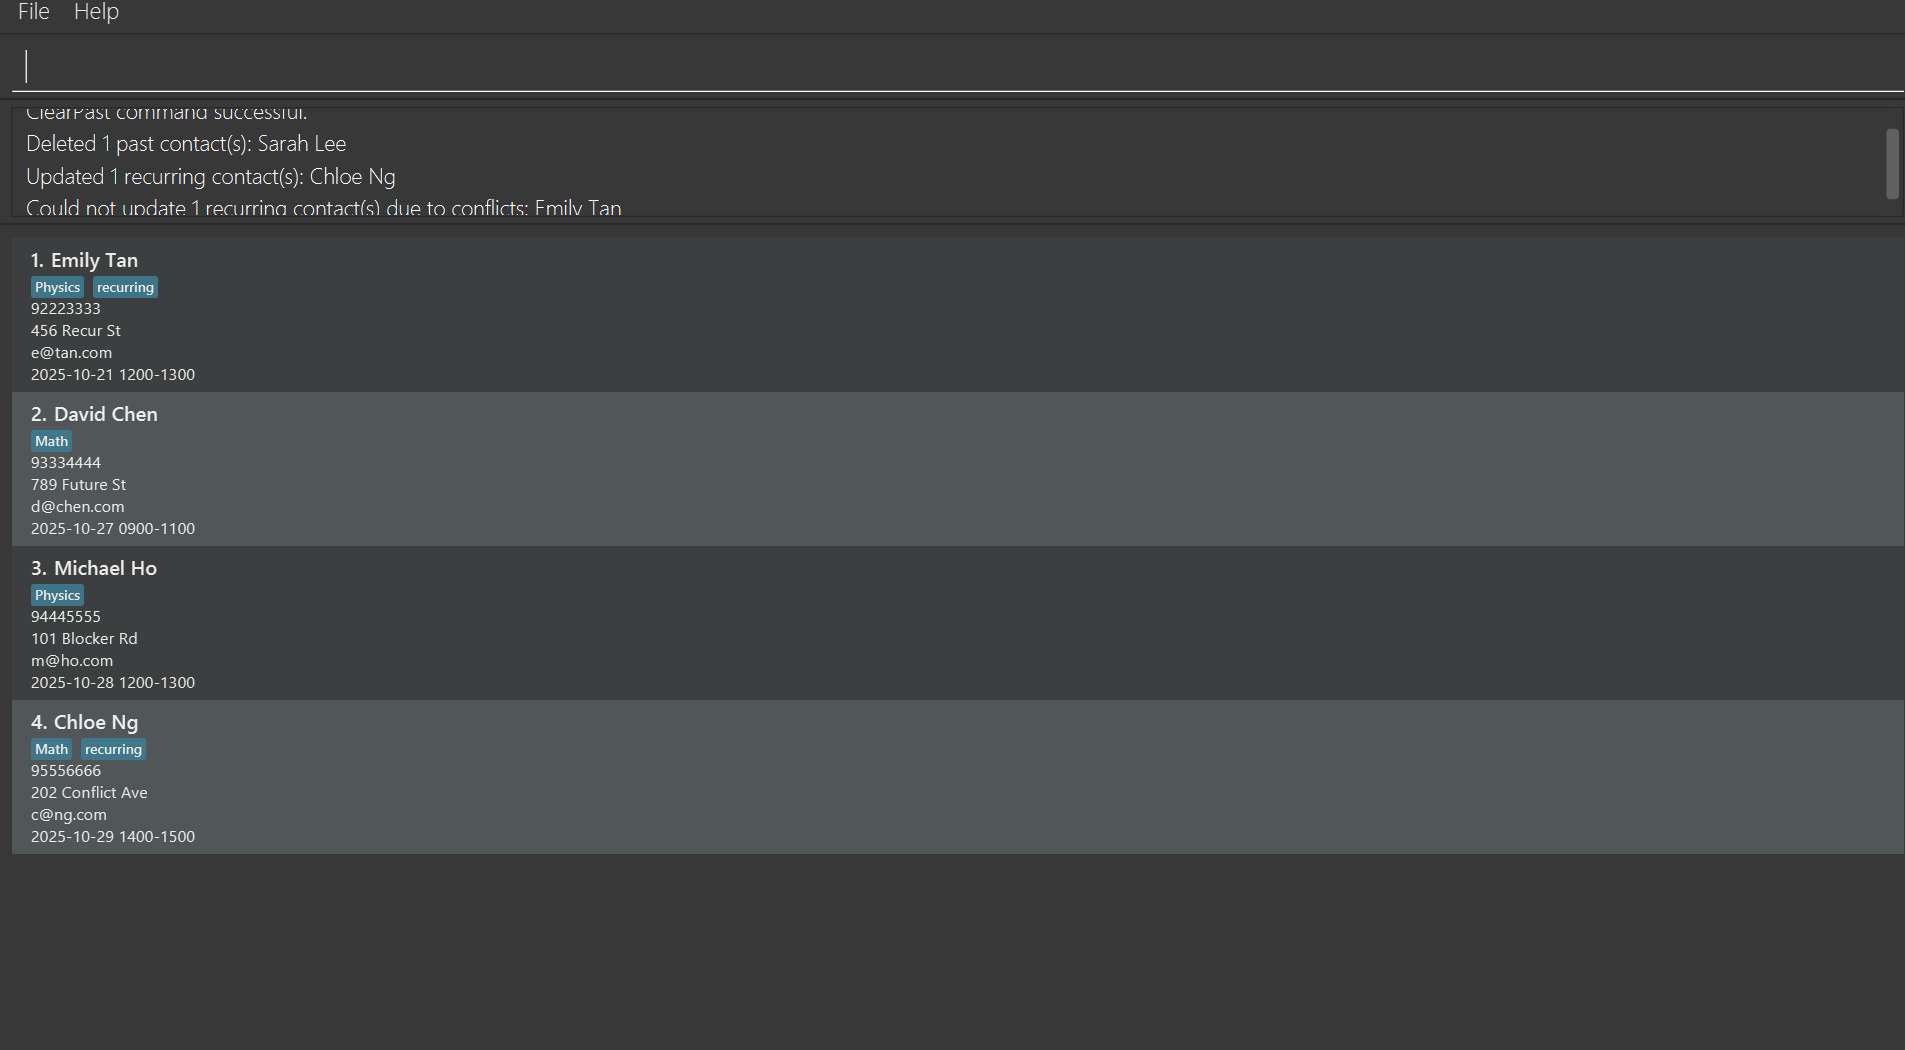
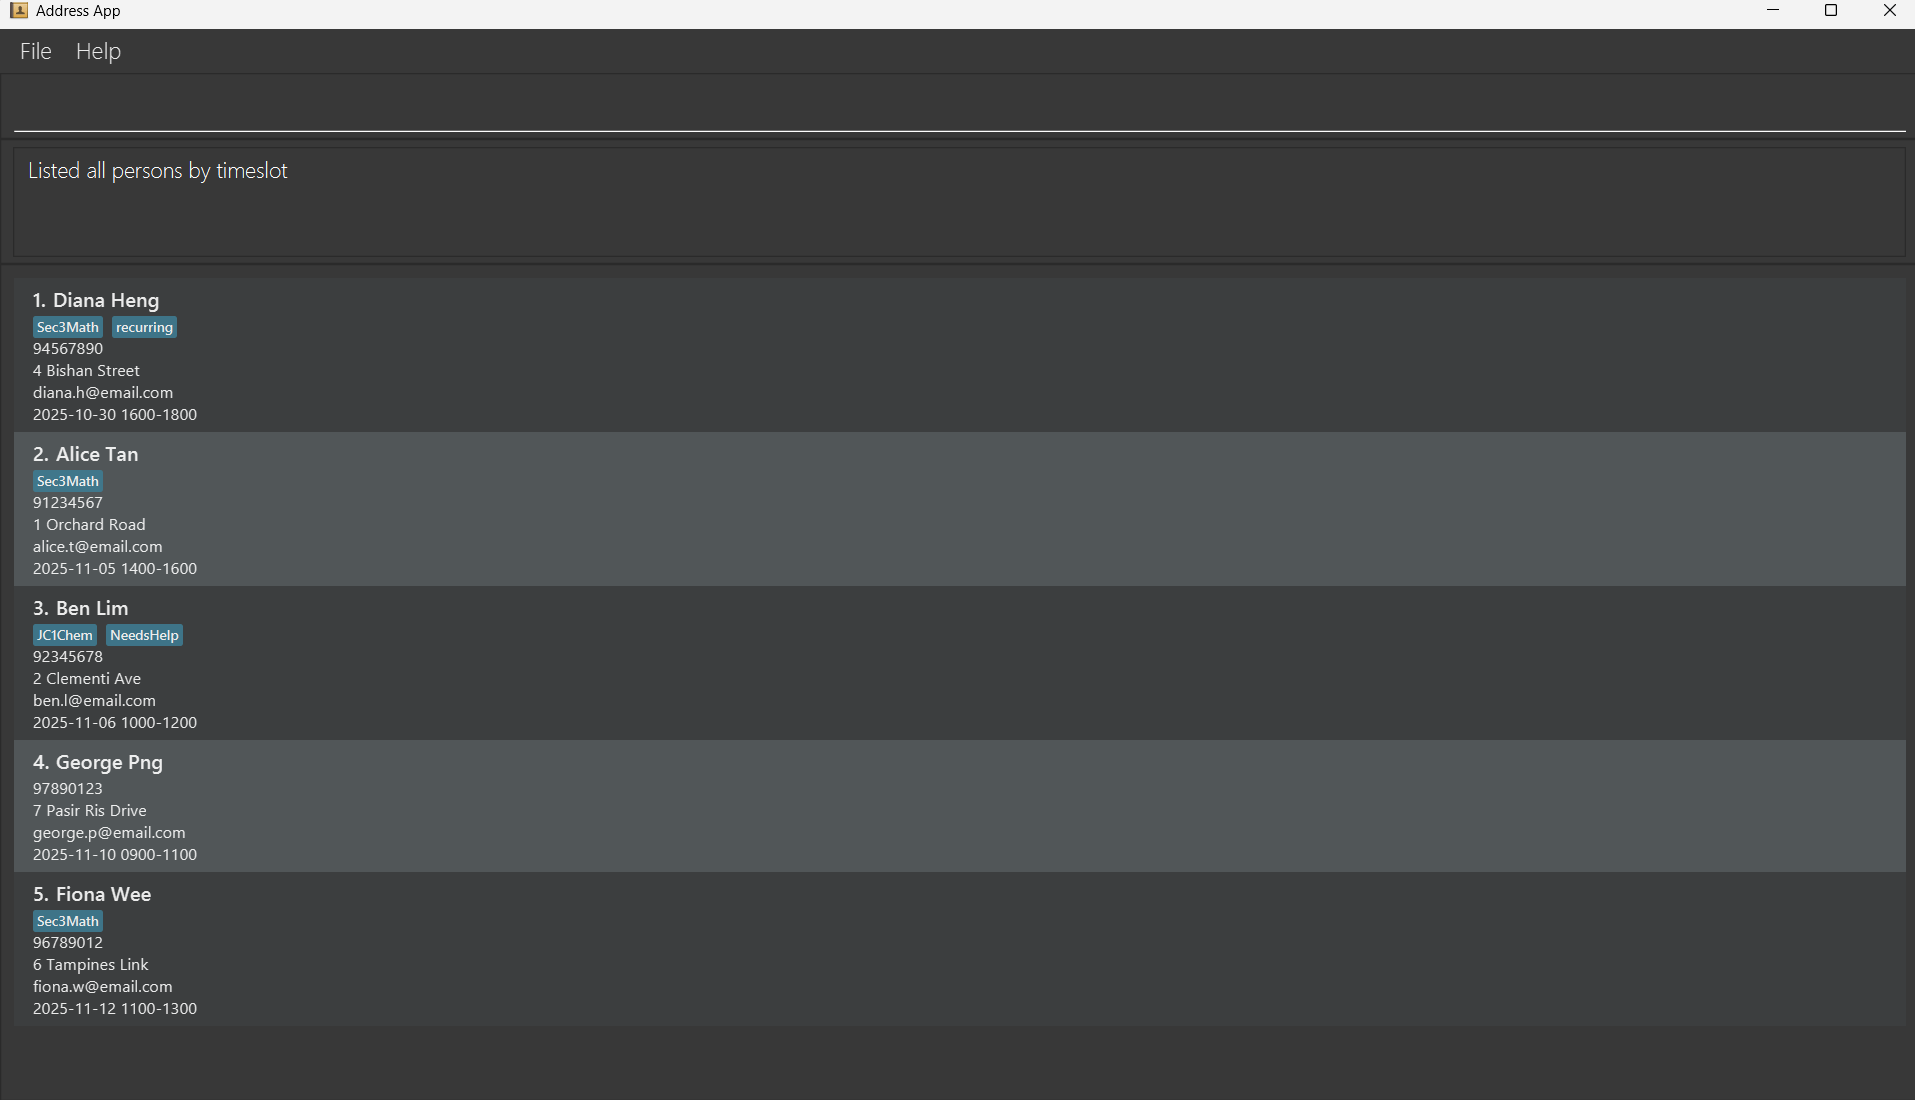
Refresh user guide

diff --git a/docs/UserGuide.md b/docs/UserGuide.md
@@ -4,9 +4,9 @@ title: "User Guide"
 pageNav: 3
 ---
 
-# AB-3 User Guide
+# EduTrack User Guide
 
-AddressBook Level 3 (AB3) is a **desktop app for managing contacts, optimized for use via a Command Line Interface** (CLI) while still having the benefits of a Graphical User Interface (GUI). If you can type fast, AB3 can get your contact management tasks done faster than traditional GUI apps.
+EduTrack is a **desktop app for private tutors to manage their students, optimized for use via a Command Line Interface** (CLI) while still having the benefits of a Graphical User Interface (GUI). If you can type fast, EduTrack can help you with student scheduling (among other management tasks) faster than traditional GUI apps, allowing you to focus on tecahing rather than mundane admin work.
 
 <page-nav-print />
 
@@ -19,18 +19,19 @@ AddressBook Level 3 (AB3) is a **desktop app for managing contacts, optimized fo
 
 2.  Download the latest `.jar` file from [here](https://github.com/AY2526S1-CS2103T-T15-1/tp/releases/tag/v1.4).
 
-3.  Copy the file to the folder you want to use as the _home folder_ for your AddressBook.
+3.  Copy the file to the folder you want to use as the _home folder_ for EduTrack.
 
 4.  Open a command terminal, `cd` into the folder you put the jar file in, and use the `java -jar addressbook.jar` command to run the application.<br>
-    A GUI similar to the below should appear in a few seconds. Note how the app contains some sample data.<br>
+    A GUI similar to the below should appear in a few seconds. Note how EduTrack already contains some sample students for ease of testing, however feel free to add ur own data. <br>
     ![Ui](images/Ui.png)
 
 5.  Type the command in the command box and press Enter to execute it. e.g. typing **`help`** and pressing Enter will open the help window.<br>
     Some example commands you can try:
+    Tip: if you are unsure about the format of a specific command, just enter the keyword (e.g. `add`), and the corresponding error message will show the correct format for that command.
 
-    * `list` : Lists all contacts which are sorted by time slot.
+    * `list` : Lists all contacts which are **sorted by time slot**.
 
-    * `add n/John Doe p/98765432 e/johnd@example.com a/John street, block 123, #01-01 t/Chemistry ts/2025-10-20 1400-1500` : Adds a contact named `John Doe` with a specified tag and time slot to the Address Book.
+    * `add n/Alice Tan p/91234567 e/alice.t@email.com a/1 Orchard Road ts/2025-11-05 1400-1600 t/Sec3Math` : Adds a contact named `Alice Tan` with a specified tag `Sec3Math` and time slot `2025-11-05 1400-1600`, amongst other fields, to the Address Book.
 
     * `delete 3` : Deletes the 3rd contact shown in the current list.
 
@@ -51,10 +52,10 @@ AddressBook Level 3 (AB3) is a **desktop app for managing contacts, optimized fo
 **Notes about the command format:**<br>
 
 * Words in `UPPER_CASE` are the parameters to be supplied by the user.<br>
-  e.g. in `add n/NAME`, `NAME` is a parameter which can be used as `add n/John Doe`.
+  e.g. in `add n/NAME`, `NAME` is a parameter which can be used as `add n/Alice Tan`.
 
 * Items in square brackets `[]` are optional.<br>
-  e.g. `n/NAME [t/TAG]` can be used as `n/John Doe t/friend` or as `n/John Doe`.
+  e.g. `n/NAME [t/TAG]` can be used as `n/Alice Tan t/friend` or as `n/Alice Tan`.
 
 * Items with `…` after them can be used multiple times including zero times.<br>
   e.g. `[t/TAG]…` can be used as ` ` (i.e. 0 times), `t/friend`, `t/friend t/family` etc.
@@ -62,8 +63,8 @@ AddressBook Level 3 (AB3) is a **desktop app for managing contacts, optimized fo
 * Parameters can be in any order.<br>
   e.g. if the command specifies `n/NAME p/PHONE_NUMBER`, `p/PHONE_NUMBER n/NAME` is also acceptable.
 
-* Extraneous parameters for commands that do not take in parameters (such as `help`, `list`, `exit` and `clear`) will be ignored.<br>
-  e.g. if the command specifies `help 123`, it will be interpreted as `help`.
+* Extraneous parameters for commands that do not take in parameters (such as `help`, `list`, `exit` and `clear`) throw an error, but whitepsace is allowed.<br>
+  e.g. if the command specifies `help `, it will be interpreted as `help`, but `help 123` will fail.
 
 * If you are using a PDF version of this document, be careful when copying and pasting commands that span multiple lines as space characters surrounding line-breaks may be omitted when copied over to the application.
   </box>
@@ -83,7 +84,7 @@ Adds a person to the address book.
 Format: `add n/NAME p/PHONE_NUMBER e/EMAIL a/ADDRESS ts/YYYY-MM-DD HHMM-HHMM [t/TAG]…`
 
 * The `ts/` (time slot) parameter is mandatory for all new contacts.
-* The application automatically checks for scheduling conflicts and prevents you from adding a contact whose time slot overlaps with an existing one.
+* The application will automatically check for scheduling conflicts and duplicate phone numbers. You will be prevented from adding a student if their specified time slot overlaps with an existing slot (showing the conflicting student's name and slot) or if the phone number is already in use (showing the name of the student using that number).
 
 <box type="tip" seamless>
 
@@ -91,11 +92,15 @@ Format: `add n/NAME p/PHONE_NUMBER e/EMAIL a/ADDRESS ts/YYYY-MM-DD HHMM-HHMM [t/
 </box>
 
 Examples:
-* `add n/John Doe p/98765432 e/johnd@example.com a/John street, block 123, #01-01 ts/2025-10-27 1000-1100`
-* `add n/Betsy Crowe t/friend e/betsycrowe@example.com a/Newgate Prison p/1234567 t/criminal ts/2025-10-27 1100-1200`
+* `add n/Alice Tan p/91234567 e/alice.t@email.com a/1 Orchard Road ts/2025-11-05 1400-1600 t/Sec3Math` (Adds Alice Tan with one subject tag)
+* `add n/Ben Lim p/92345678 e/ben.l@email.com a/2 Clementi Ave ts/2025-11-06 1000-1200 t/JC1Chem t/NeedsHelp` (Adds Ben Lim with two tags)
+* `add n/George Png p/97890123 e/george.p@email.com a/7 Pasir Ris Drive ts/2025-11-10 0900-1100` (Adds George Png with no tags)
 
-Example of timeslot-conflict:
-![timeslot conflict with John Doe](images/timeslot-conflict.png)
+Example of timeslot-conflict (assuming Alice Tan was already added): `add n/New Student p/12341234 e/new@email.com a/Some Address ts/2025-11-05 1500-1700`
+![timeslot conflict with Alice Tan](images/timeslot-conflict-alicetan.png)
+
+Example of phone-conflict (assuming Alice Tan was already added): `add n/Another Student p/91234567 e/another@email.com a/Another Address ts/2025-11-11 1000-1200`
+![phone conflict with Alice Tan](images/phone-conflict-alicetan.png)
 
 ### Listing all persons : `list`
 
@@ -113,15 +118,18 @@ Format: `edit INDEX [n/NAME] [p/PHONE] [e/EMAIL] [a/ADDRESS] [ts/TIMESLOT] [t/TA
 * Edits the person at the specified `INDEX`. The index refers to the index number shown in the displayed person list. The index **must be a positive integer** 1, 2, 3, …
 * At least one of the optional fields must be provided.
 * Existing values will be updated to the input values.
-* If you edit the time slot (`ts/`), the application will check for scheduling conflicts.
+* If you edit the time slot (`ts/`) or phone number (`p/`), the application will check for scheduling or phone number conflicts, providing specific details if a conflict occurs.
 * When editing tags, the existing tags of the person will be removed i.e. adding of tags is not cumulative.
 * You can remove all the person’s tags by typing `t/` without
   specifying any tags after it.
+* Upon successful edit, the application will confirm the changes by listing the fields that were modified.
 
 Examples:
-* `edit 1 p/91234567 e/johndoe@example.com` Edits the phone number and email address of the 1st person to be `91234567` and `johndoe@example.com` respectively.
-* `edit 2 n/Betsy Crower t/` Edits the name of the 2nd person to be `Betsy Crower` and clears all the person's existing tags.
-* `edit 1 ts/2025-11-20 1500-1600` Edits the time slot of the 1st person.
+* `edit 1 p/91112222 e/new.charlie@email.com` (Edits phone and email of the 1st student, Charlie Goh)
+* `edit 2 t/Urgent` (Edits the tags of the 2nd student, Diana Heng, replacing `Sec3Math` and `recurring` with Urgent)
+* `edit 5 n/Alice Tan Updated ts/2025-11-05 1430-1630` (Edits the name and time slot of the 5th student, Alice Tan)
+
+![successful edit of Charlie](images/edit-success-message.png)
 
 ### Locating persons by name: `find`
 
@@ -129,17 +137,16 @@ Finds persons whose names contain any of the given keywords.
 
 Format: `find KEYWORD [MORE_KEYWORDS]`
 
-* The search is case-insensitive. e.g. `hans` will match `Hans`
-* The search is a substring match search. e.g. `Ha` will match `Hans` and `ming han`.
-* The order of the keywords does not matter. e.g. `Hans Bo` will match `Bo Hans`
+* The search is case-insensitive. e.g. `lice` will match `Alice`
+* The search looks for the keyword anywhere within the name (substring search). e.g. `lice` will match `Alice Pauline`
+* The order of the keywords does not matter. e.g. `Tan Ali` will match `Alice Tan`
 * Only the name is searched.
 * Persons matching at least one keyword will be returned (i.e. `OR` search).
-  e.g. `Hans Bo` will return `Hans Gruber`, `Bo Yang`
+  e.g. `Ali Ben` will return `Alice Tan`, `Ben Lim`.
 
 Examples:
-* `find John` returns `John` and `John Doe`
-* `find alex david` returns `Alex Yeoh`, `David Li`<br>
-  ![result for 'find alex david'](images/findAlexDavidResult.png)
+* `find Ali` returns `Alice Tan`
+* `find Tan Lim Goh` returns `Alice Tan`, `Ben Lim`, `Charlie Goh` <br>
 
 ### Locating persons by tag: `findtag`
 
@@ -151,8 +158,11 @@ Format: `findtag TAG [MORE_TAGS]…`
 * Persons matching at least one tag will be returned (i.e. `OR` search).
 
 Examples:
-* `findtag Math` will return contacts with tag `Math`
-* `findtag Math English` will return contacts with tag `Math` or tag `English`
+* `findtag Sec3Math` returns `Alice Tan`, `Diana Heng`, `Fiona Wee`.
+* `findtag recurring` returns `Diana Heng`.
+* `findtag recurring needshelp` returns `Diana Heng`, `Ben Lim`
+
+![multi-tag findtag](images/findtag_double.png)
 
 ### Finding persons by time slot : `findtimeslot`
 
@@ -163,14 +173,16 @@ Format: `findtimeslot [YYYY-MM-DD] [HHMM]`
 * At least one parameter (date or time) must be provided.
 * **Find by Date:** Lists all persons with a time slot on that specific date.
 * **Find by Time:** Lists all persons whose time slot starts at that specific time, regardless of date.
-* **Find by Date and Time:** Lists all persons with a time slot on that specific date *and* starting at that specific time.
+* **Find by Date and Time:** If both keywords are provided, lists all persons with a time slot on that specific date *and* starting at that specific time.
+* **Important**: Unlike `filtertimeslot`, this command finds exact matches for the start time / date. It does not search within a range.
 
 Examples:
-* `findtimeslot 2025-10-12` (Finds all contacts on 2025-10-12)
-![result for 'findtimeslot 2025-10-12'](images/findtimeslot-date.png)
-* `findtimeslot 1200` (Finds all contacts with appointments starting at 12:00)
-* `findtimeslot 2025-10-12 1200` (Finds all contacts on 2025-10-12 starting at 12:00)
-  ![result for 'findtimeslot 2025-10-12 1200'](images/findtimeslot-datetime.png)
+* `findtimeslot 2025-11-05` (Finds Alice Tan - matches date)
+* `findtimeslot 1000` (Finds Ben Lim - matches start time)
+* `findtimeslot 2025-11-06 1000` (Finds Ben Lim - matches both date AND start time)
+* `findtimeslot 2025-10-22 1600` (Finds no one - Charlie Goh matches the date but not the time; Diana Heng matches the time but not the date)
+
+![date_time search](images/findtimeslot_datetime.png)
 
 ### Filtering persons by time slot range : `filtertimeslot`
 
@@ -183,25 +195,21 @@ Format: `filtertimeslot [sd/START_DATE] [ed/END_DATE] [st/START_TIME] [et/END_TI
     * `ed/` (end date, e.g., `2025-10-28`)
     * `st/` (start time, e.g., `0800`)
     * `et/` (end time, e.g., `1200`)
+* Dates are `YYYY-MM-DD`, times are `HHMM`.
 * All fields are optional, but at least one must be present.
+* You can also use the keywords now or today for date prefixes (`sd/`, `ed/`) and now for time prefixes (`st/`, `et/`) to filter relative to the current system time. For example, `sd/now` filters for time slots starting from the current moment onwards.
 * If `sd/` is provided without `ed/`, it filters for all time slots on or after the start date.
 * If `ed/` is provided without `sd/`, it filters for all time slots on or before the end date.
 * If `st/` is provided without `et/`, it filters for all time slots on or after the start time.
 * If `et/` is provided without `st/`, it filters for all time slots on or before the end time.
 
-Examples:
-* `filtertimeslot sd/2025-10-27 ed/2025-10-27 st/0800 et/1200`
+Examples (assuming current date is 2025-10-30):
+* `filtertimeslot sd/2025-11-01 ed/2025-11-10` (Shows Alice Tan, Ben Lim, George Png)
+* `filtertimeslot st/1400` (Shows Charlie Goh, Diana Heng, Ethan Yeo. Alice Tan)
+* `filtertimeslot sd/today` (Shows Alice Tan, Ben Lim, Fiona Wee, George Png)
 
-  Result: Only contacts with time slots on 27 Oct 2025, between 08:00 and 12:00, are shown.
+![filtertimeslot_today](images/filtertimeslot_today.png)
 
-  ![result for 'filtertimeslot sd/2025-10-27 ed/2025-10-27 st/0800 et/1200'](images/filtertimeslot-allfields.png)
-* `filtertimeslot sd/2025-10-27 st/0800 et/1200`
-  Result: Only contacts with time slots on or after 27 Oct 2025, between 08:00 and 12:00, are shown.
-* `filtertimeslot sd/2025-10-20 ed/2025-10-21 st/0800`
-
-  Result: Only contacts with time slots between 20-21 Oct 2025, starting on or after 08:00, are shown.
-
-![result for 'filtertimeslot sd/2025-10-20 ed/2025-10-21 st/0800'](images/filtertimeslot-sd-ed-st.png)
 
 ### Deleting a person : `delete`
 
@@ -227,10 +235,20 @@ Format: `clearpast`
 * This command uses the current system time to determine which time slots are in the past.
 * Contacts tagged as `recurring` will **not** be deleted.
 * Instead, for `recurring` contacts, the time slot is automatically updated in 7-day intervals until the new slot falls in the future relative to the system time.
-* The update will fail with an error message if the new recurring time slot conflicts with an existing appointment.
+* The update will fail with an error message detailing the specific conflict (conflicting student's name and slot) if the new recurring time slot conflicts with an existing appointment.
+
+Example (assuming current date is 2025-10-30):
+
+Running clearpast will:
+
+* Delete Charlie Goh, Ethan Yeo (past, not recurring).
+
+* Update Diana Heng's slot to 2025-10-30 1600-1800 (past, recurring).
+
+* Leave Alice, Ben, Fiona, George untouched.
 
 Sample message shown to user in dialog box:
-![result for 'clearpast'](images/clearpast-message.png)
+![result for 'clearpast'](images/successful-clearpast.png)
 
 ### Clearing all entries : `clear`
 
@@ -246,17 +264,17 @@ Format: `exit`
 
 ### Saving the data
 
-AddressBook data are saved in the hard disk automatically after any command that changes the data. There is no need to save manually.
+The data in EduTrack is saved in the hard disk automatically after any command that changes the data. There is no need to save manually.
 
 ### Editing the data file
 
-AddressBook data are saved automatically as a JSON file `[JAR file location]/data/addressbook.json`. Advanced users are welcome to update data directly by editing that data file.
+The data in EduTrack is saved automatically as a JSON file `[JAR file location]/data/addressbook.json`. Advanced users are welcome to update data directly by editing that data file.
 
 <box type="warning" seamless>
 
 **Caution:**
-If your changes to the data file makes its format invalid, AddressBook will discard all data and start with an empty data file at the next run. Hence, it is recommended to take a backup of the file before editing it.<br>
-Furthermore, certain edits can cause the AddressBook to behave in unexpected ways (e.g., if a value entered is outside the acceptable range). Therefore, edit the data file only if you are confident that you can update it correctly.
+If your changes to the data file makes its format invalid, EduTrack will discard all data and start with an empty data file at the next run. Hence, it is recommended to take a backup of the file before editing it.<br>
+Furthermore, certain edits can cause EduTrack to behave in unexpected ways (e.g., if a value entered is outside the acceptable range). Therefore, edit the data file only if you are confident that you can update it correctly.
 </box>
 
 ### Archiving data files `[coming in v2.0]`
